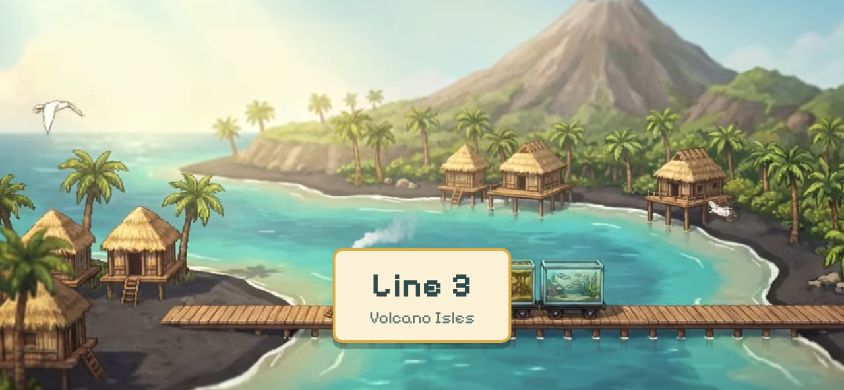
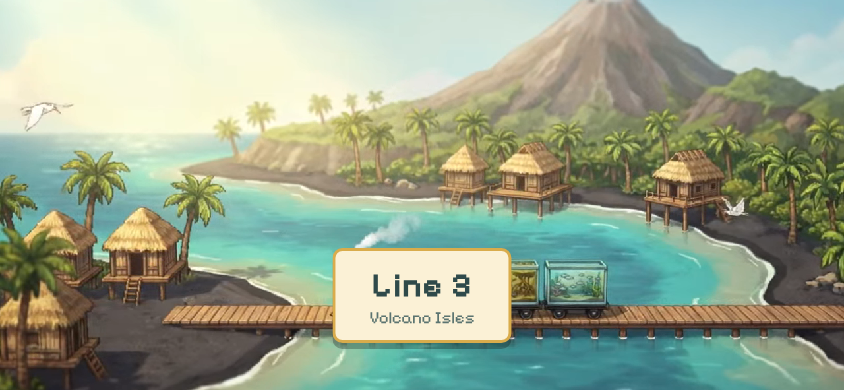
fix: train sits on the rails (no hover) on every Line and in the depot scene; locked-Line text, button fonts, manta (T-24)

diff --git a/src/render/diorama/diorama.ts b/src/render/diorama/diorama.ts
@@ -1,7 +1,7 @@
 import * as THREE from 'three';
 import { toTexture } from '../paint/canvas';
 import { SUNNY } from '../paint/palette';
-import { WORLD, LAYER_Z } from './config';
+import { WORLD, LAYER_Z, RAIL_TOP, RAIL_Z } from './config';
 import { TileLayer } from './tileLayer';
 import { createSea } from './sea';
 import { paintSky, paintClouds } from './paintSky';
@@ -86,7 +86,9 @@ export class Diorama {
     // track bed + front rail (shared); verge, wall, garden and near layers are per Line (foreground.ts)
     const bedDepth = WORLD.trackFrontZ - WORLD.trackBackZ;
     this.add({ width: 24, height: bedDepth, y: WORLD.groundY, z: (WORLD.trackFrontZ + WORLD.trackBackZ) / 2, horizontal: true, textures: [toTexture(paintTrackBed(61), true)] });
-    this.add({ width: 24, height: 0.25, y: -0.03, z: 0.56, textures: [toTexture(paintRailSide(), true)], renderOrder: 2 });
+    // T-24: the rail stands ON the bed directly in front of the train (stage: train at y RAIL_TOP, z 0.1), so the
+    // wheels sit on the rail head instead of hovering over a grass strip with the rail drawn lower in front.
+    this.add({ width: 24, height: RAIL_TOP, y: 0, z: RAIL_Z, textures: [toTexture(paintRailSide(), true)], renderOrder: 2 });
 
     this.veilMat = new THREE.MeshBasicMaterial({ color: '#e8eef0', transparent: true, opacity: 0, depthWrite: false, fog: false });
     this.veil = new THREE.Mesh(new THREE.PlaneGeometry(200, 120), this.veilMat);

diff --git a/tests/unit/ui/t24.test.ts b/tests/unit/ui/t24.test.ts
@@ -1,0 +1,25 @@
+import { describe, expect, it } from 'vitest';
+import { loadGameData } from '../../../src/data/schema';
+import { createSim } from '../../../src/sim';
+import { lineLockText } from '../../../src/ui/helpers';
+
+const data = loadGameData();
+
+describe('lineLockText (T-24, T-20 two-run unlock rule)', () => {
+  it('reads the run count and requirement from state + data', () => {
+    const sim = createSim(data, { seed: 1 });
+    const l2 = data.lines.find((l) => l.id === 2)!;
+    const need = l2.opensAfterRuns ?? 1;
+    const prev = data.lines.find((l) => l.id === l2.opensAfter)!;
+    expect(lineLockText(data, sim.state, 2)).toContain(`Reach the ${prev.region} terminal`);
+    expect(lineLockText(data, sim.state, 2)).toContain(`to open the ${l2.region} (0/${need})`);
+    sim.state.permanent.terminalRuns[String(prev.id)] = 1;
+    expect(lineLockText(data, sim.state, 2)).toContain(`(1/${need})`);
+    sim.state.permanent.terminalRuns[String(prev.id)] = 9;
+    expect(lineLockText(data, sim.state, 2)).toContain(`(${need}/${need})`);
+  });
+  it('says "twice" for the shipped two-run rule', () => {
+    const sim = createSim(data, { seed: 1 });
+    if ((data.lines.find((l) => l.id === 2)?.opensAfterRuns ?? 1) === 2) expect(lineLockText(data, sim.state, 2)).toContain('terminal twice');
+  });
+});

diff --git a/src/render/depot/depotScene.ts b/src/render/depot/depotScene.ts
@@ -127,7 +127,9 @@ export class DepotScene {
     const shedW = Math.max(8.5, front * 2 + 4.5);
     const wallH = 3.4;
     this.stopX = shedW / 2 - 0.8;
-    train.group.position.set(-len - 22, 0.18, 0);
+    // T-24: rail head (row 2 of paintRails on the 0.34-tall strip at y 0.04) is at y ≈ 0.1675; art wheels end at
+    // BODY_LIFT 0.05 above the group, so 0.11 rests them on the rail head (was 0.18: hovering ~0.06 above it).
+    train.group.position.set(-len - 22, 0.11, 0);
     this.lastX = train.group.position.x;
     this.world.add(train.group, train.steam.group);
 
@@ -141,7 +143,7 @@ export class DepotScene {
     const railsTex = toTexture(paintRails(), true);
     railsTex.wrapS = THREE.RepeatWrapping;
     railsTex.repeat.x = 60;
-    const main = new THREE.Mesh(new THREE.PlaneGeometry(400, 0.34), new THREE.MeshBasicMaterial({ map: railsTex }));
+    const main = new THREE.Mesh(new THREE.PlaneGeometry(400, 0.34), new THREE.MeshBasicMaterial({ map: railsTex, transparent: true, alphaTest: 0.5 }) /* T-24: clear top rows were drawn black */);
     main.position.set(0, 0.04, 0.02);
     const siding = main.clone();
     siding.position.set(-200 - shedW / 2 + 2, 0.04, SIDING_Z);

diff --git a/src/render/stage.ts b/src/render/stage.ts
@@ -5,7 +5,7 @@ import { nextStation } from '../sim/rates';
 import stationsJson from '../story/stations.json';
 import { Diorama } from './diorama/diorama';
 import { CameraRig } from './diorama/cameraRig';
-import { WORLD } from './diorama/config';
+import { RAIL_TOP, WORLD } from './diorama/config';
 import { Train } from './train/train';
 import { Post, FpsGuard, type Quality } from './post/post';
 import { Particles } from './fx/particles';
@@ -96,7 +96,8 @@ export class Stage implements GameView {
     this.train = new Train((id) => species.get(id) ?? 'darter');
     this.depot = new DepotScene(canvas.parentElement ?? document.body, (id) => species.get(id) ?? 'darter');
     const scene = this.diorama.scene;
-    this.train.group.position.set(0, 0.2, 0.1);
+    // T-24: art wheels end at BODY_LIFT (0.05) above the group origin; sink 0.08 so the wheel rims tuck ~2 px behind the rail head (it is drawn in front).
+    this.train.group.position.set(0, RAIL_TOP - 0.08, 0.1);
     scene.add(this.train.group, this.train.steam.group, this.particles.group, this.passengers.group);
     this.coins = new CoinFlight(this.rig.camera, canvas);
     this.sights = new SightFx({

diff --git a/src/render/diorama/paintTrack.ts b/src/render/diorama/paintTrack.ts
@@ -22,13 +22,8 @@ export function paintTrackBed(seed: number): HTMLCanvasElement {
     ctx.fillStyle = SUNNY.wood;
     ctx.fillRect(x + 2, 14, 6, 44);
   }
-  // rails (back and front)
-  for (const ry of [22, 50]) {
-    ctx.fillStyle = SUNNY.rail;
-    ctx.fillRect(0, ry, w, 4);
-    ctx.fillStyle = SUNNY.railTop;
-    ctx.fillRect(0, ry, w, 1);
-  }
+  // T-24: no painted rails here — the rail is the side-on strip standing on the bed under the wheels
+  // (a painted front rail read as a second, lower track in front of the train).
   // grass edges
   for (let x = 0; x < w; x += 2) {
     ctx.fillStyle = r() < 0.5 ? SUNNY.grass : SUNNY.grassDark;

diff --git a/src/render/train/train.ts b/src/render/train/train.ts
@@ -150,7 +150,8 @@ export class Train {
       }
     }
     const link = new THREE.Mesh(new THREE.PlaneGeometry(GAP + 0.16, 0.06), new THREE.MeshBasicMaterial({ color: '#34474c' }));
-    link.position.set(g.w / 2 + GAP / 2, this.art ? 18 * ART_PX : 0.26, -0.01);
+    // T-24: coupling bar at buffer height (car art buffers ~31 px above the wheel line), not floating by the rails
+    link.position.set(g.w / 2 + GAP / 2, this.art ? BODY_LIFT + 31 * ART_PX : 0.26, -0.01);
     group.add(link);
     const hit = new THREE.Mesh(this.hitGeo, new THREE.MeshBasicMaterial({ visible: false }));
     hit.position.set(0, BODY_LIFT + g.h / 2, 0.05);

diff --git a/src/render/diorama/config.ts b/src/render/diorama/config.ts
@@ -31,3 +31,8 @@ export const LAYER_Z = {
   near: 3.6,
   nearFront: 7.5,
 } as const;
+
+/** T-24: rail head height above the track bed; the train's wheels stand on it (stage.ts sets train y = RAIL_TOP). */
+export const RAIL_TOP = 0.2;
+/** T-24: Z of the side-on rail strip — just in front of the train (z 0.1) and its wheel sprites. */
+export const RAIL_Z = 0.17;

diff --git a/pm/handoffs/T-24.md b/pm/handoffs/T-24.md
@@ -1,0 +1,37 @@
+# T-24 handoff (DEV): final polish and the rail fix
+
+## Status
+Done. `npm run build` passes. `npm run test` passes: 27 files, 172 tests.
+
+## Rails (top priority from the producer)
+**Cause.** The train group sat at y 0.2. The side-on rail strip sat at z 0.56, 0.46 in front of the train, and was mostly buried in the track bed. The bed texture also had two painted rails. On screen, the wheels hovered over a grass strip with the rail drawn lower in front.
+
+**Fix.**
+- `src/render/diorama/config.ts`: new `RAIL_TOP` (0.2) and `RAIL_Z` (0.17).
+- `src/render/diorama/diorama.ts`: the rail strip now stands on the bed, from y 0 to `RAIL_TOP`, at z 0.17, just in front of the train.
+- `src/render/diorama/paintTrack.ts`: removed the painted rails from the bed. The sleepers and ballast stay.
+- `src/render/stage.ts`: the train is now at y `RAIL_TOP - 0.08`. The art wheels end 0.05 above the group, so the rims tuck about 2 px behind the rail head.
+
+**Checked.** I projected the points in the page: wheel bottom 469.7 px, rail top 470.4 px at 1280×720. Screenshots cover every Line, at stations and mid-leg, on desktop and phone. The platform face now runs down to the rail.
+
+**Depot scene** (`src/render/depot/depotScene.ts`):
+- Train y changed from 0.18 to 0.11, so the wheels sit on the rail head.
+- The clear top rows of the rail texture rendered as a black line. They are now transparent (`alphaTest`).
+- Before/after comparison: `T-24_rails_compare_depotscene_desktop.png`.
+
+**Ending beach:** already correct, so no change (`T-24_rails_ending_beach_desktop.png`).
+
+**Side fix** (`src/render/train/train.ts`): the coupling bar is now at buffer height. Before, it was a dark dash floating near the rails.
+
+## Ticket items
+1. **Locked-Line text.** New `lineLockText()` in `src/ui/helpers.ts` builds the text from `lines[].opensAfterRuns` and `permanent.terminalRuns`, e.g. "Reach the Sunny Coast terminal twice to open the Fog Fjords (1/2)". It is used by the track map and the Depot Line picker. Test: `tests/unit/ui/t24.test.ts`.
+2. **Fonts.** `hud.css` now sets `button, input, select, textarea { font-family: var(--font-head) }`. The offline "Collect" button now uses Pixelify Sans (checked with computed style).
+3. **Manta.** The breach peak is lower (`JUMP.height` 3.8 → 2.7), so it now leaps inside the tilt-shift sharp band, above the monstera (`T-24_manta2_desktop.png`).
+4. **Sanity pass.** At 844×390 and 1280×720 I checked title, train L1/L2/L3, market, track, depot, offline and Tank View. Nothing clipped or overlapping needed a fix.
+
+## Screens
+`docs/qa/screens/T-24_*.png`: `rails_before_*`, `rails_after_*`, `manta*`, `offline_*`, `title`, `train_l*`, `market`, `track_*`, `depot`, `tank`.
+
+## Notes for QA
+- Shots named `l2_station` and `l3_station` sometimes catch the Line-intro cinematic.
+- The scratch screenshot scripts are not in the repo.

diff --git a/pm/STATE.md b/pm/STATE.md
@@ -32,8 +32,8 @@
 | T-22a Fix: world & sights readability | DEV | high | done |
 | T-22b Fix: ending, tank decor, offline art | DEV | high | done |
 | T-22c Fix: UI typography, phone, depot guard | DEV | high | done |
-| T-24 Final polish | DEV | medium | in progress |
-| T-23 Final QA on live build | QA | medium | next |
+| T-24 Final polish (+ train-on-rails fix) | DEV | medium | done |
+| T-23 Final QA on live build | QA | medium | in progress |
 | T-16 Painterly set + shiny | ART | medium | done |
 | T-17 Cinematic video clips | ART | medium | done |
 | T-18 Audio + ending + video player | DEV | medium | done (wiring via T-19) |
@@ -43,8 +43,8 @@
 | T-22a Fix: world & sights readability | DEV | high | done |
 | T-22b Fix: ending, tank decor, offline art | DEV | high | done |
 | T-22c Fix: UI typography, phone, depot guard | DEV | high | done |
-| T-24 Final polish | DEV | medium | in progress |
-| T-23 Final QA on live build | QA | medium | next |
+| T-24 Final polish (+ train-on-rails fix) | DEV | medium | done |
+| T-23 Final QA on live build | QA | medium | in progress |
 | T-12 Sprite sheets | ART | medium | done |
 | T-06 Sim meta (sights, depot, offline, save, markets, requests) | DEV | high | done |
 | T-07 Bots + balance.ts | DEV | high | done (1/14 green) |
@@ -66,5 +66,5 @@ See pm/CREDITS.md.
 - Polish: ending beach segment uses plain procedural backdrop → use l3 far/dusk art.
 - 2026-11-24 ~18:xx UTC: third usage-limit stop (T-19, T-20, T-21); resumed 2026-11-25 02:55 UTC.
 - Polish backlog: foreground lens garden + white fence are Line-1 style on every Line (use per-Line near art/colors); L3 flamingo/manta hidden behind palms; endless-mode toast after ending not wired.
-- PRODUCER BUG (2026-11-25): train hovers above the rails (wheels on grass strip, rails drawn lower/in front) → T-24 top priority.
+- PRODUCER BUG (2026-11-25): train hovers above the rails (wheels on grass strip, rails drawn lower/in front) → FIXED in T-24 (wheel bottom 469.7 px vs rail top 470.4 px; PM verified at 2×).
 - 2026-11-25 ~03:30 UTC: fourth usage-limit stop (T-20, T-22a/b/c). Resumed T-20 + T-22c at 03:40; T-22a/T-22b queued to resume when a slot frees (keep ≤ 2–3 concurrent to stretch the 5-h window).
